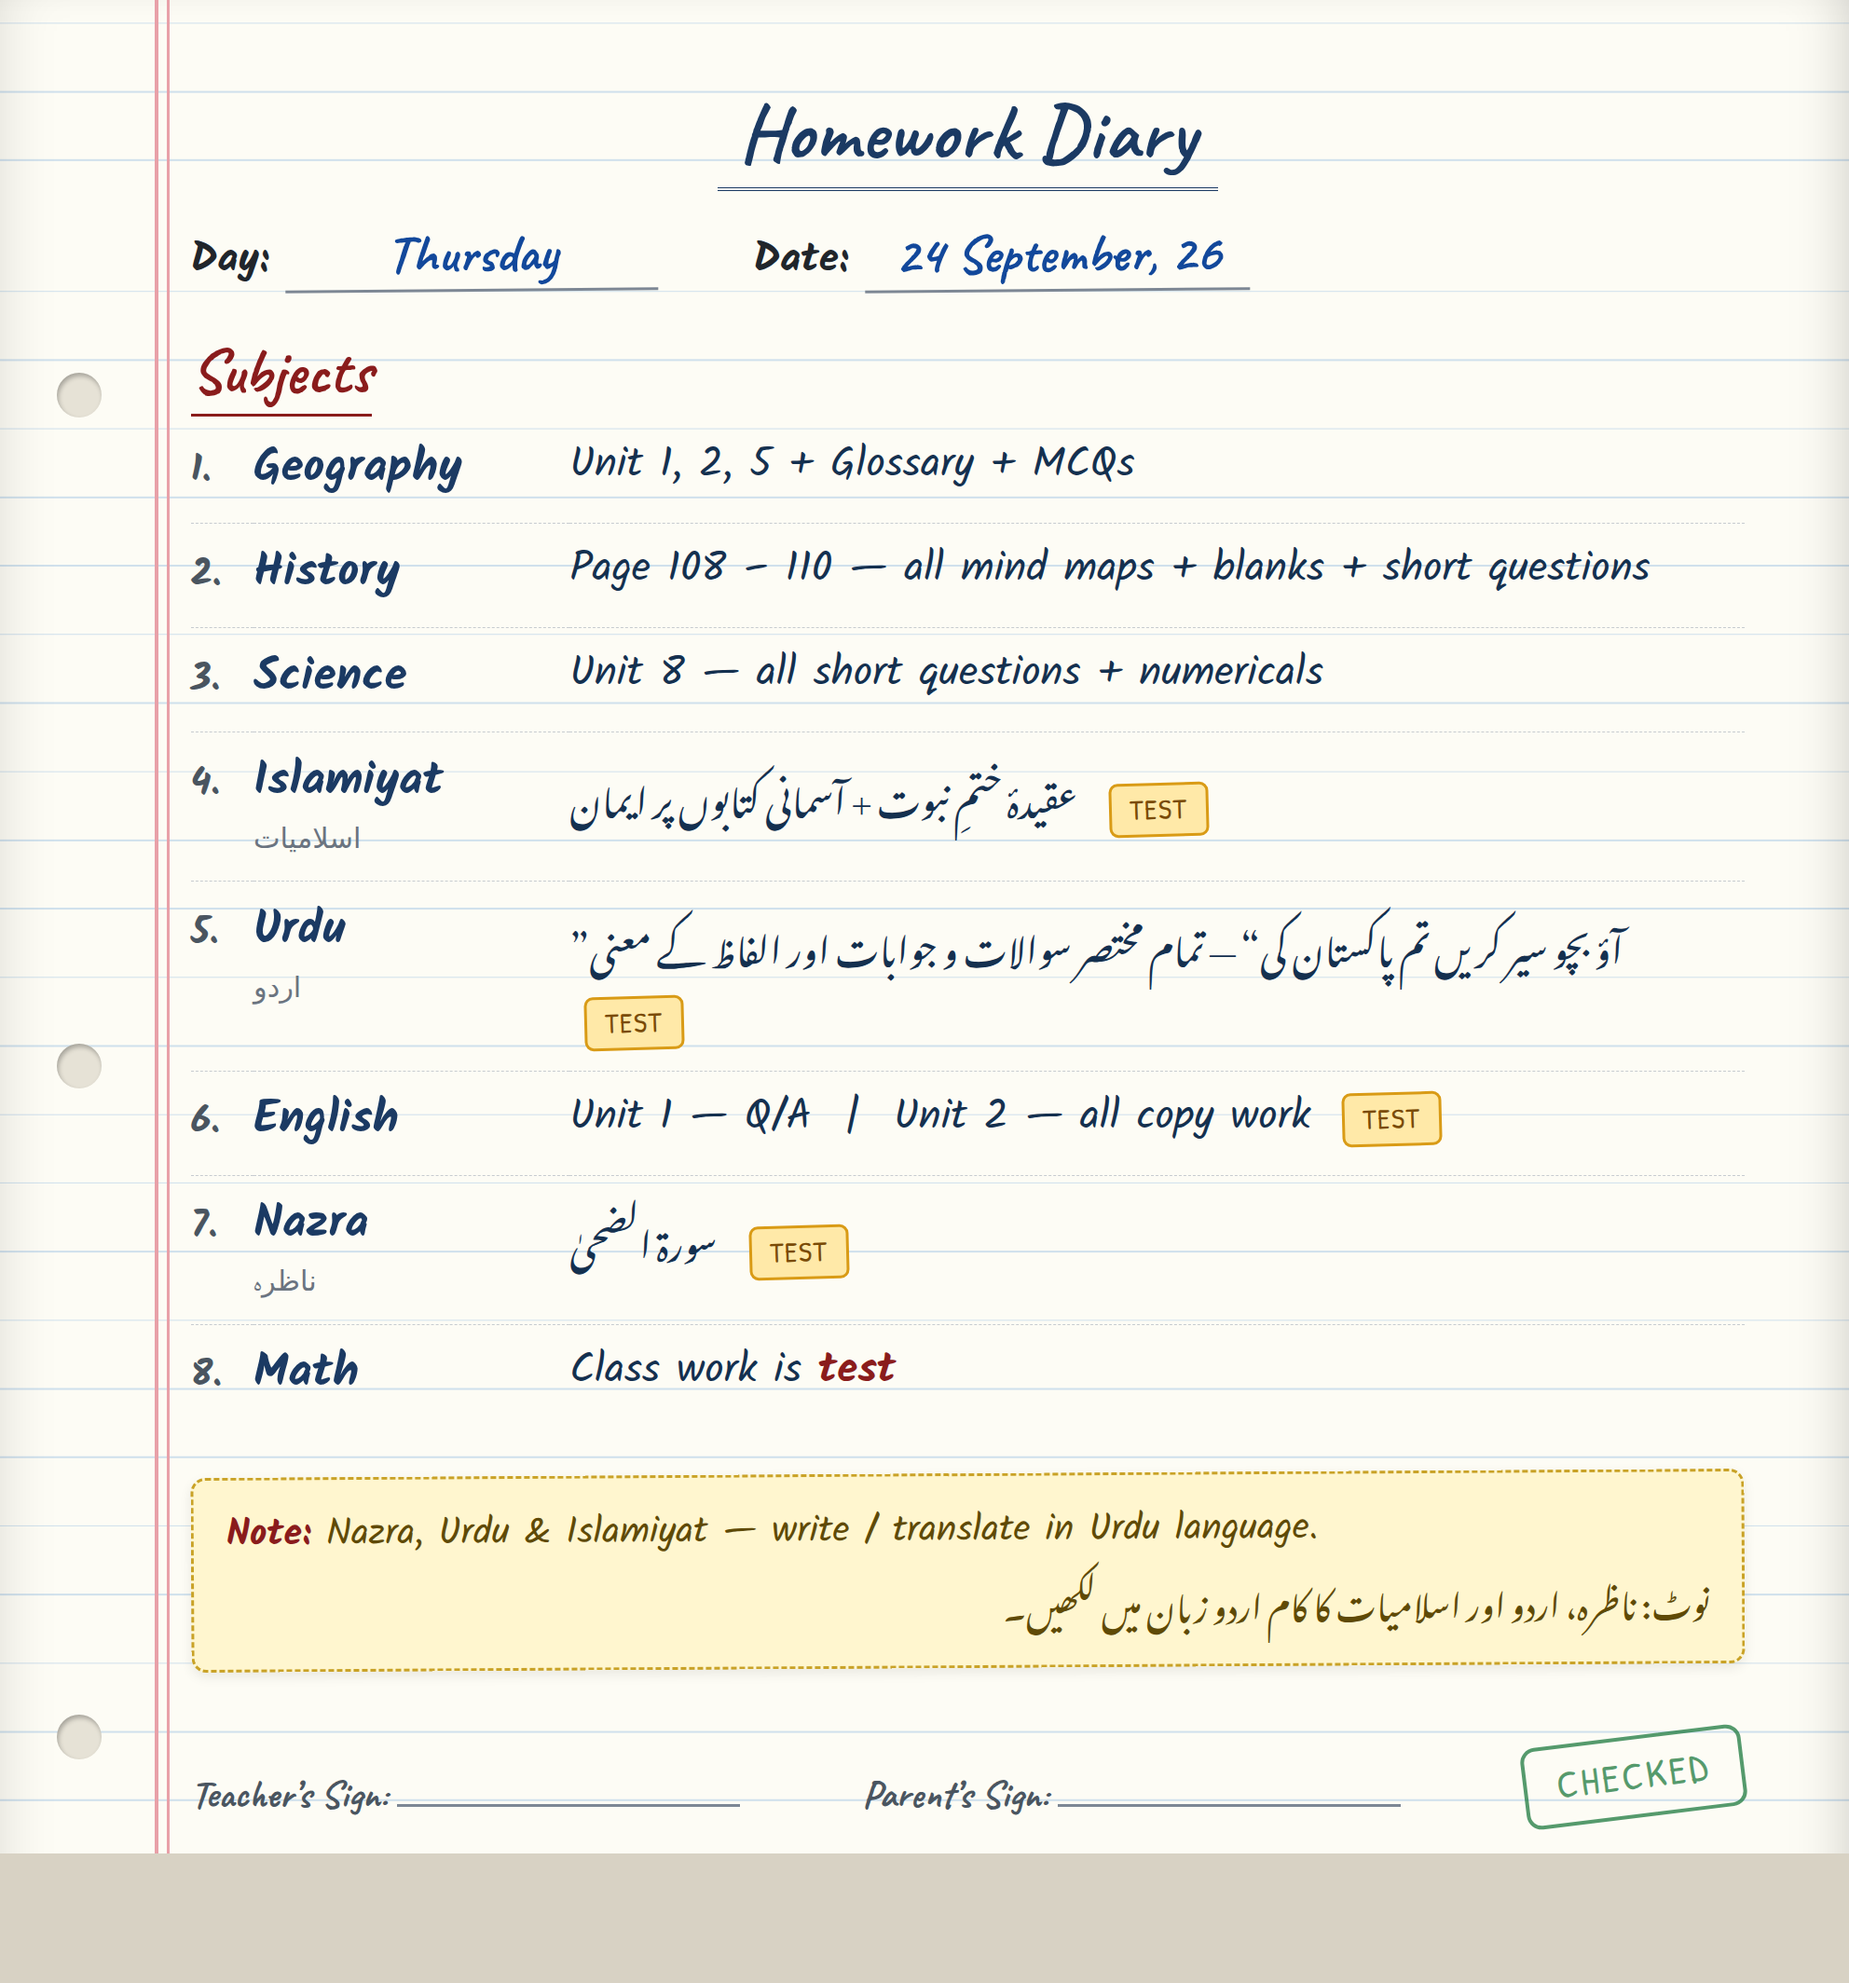
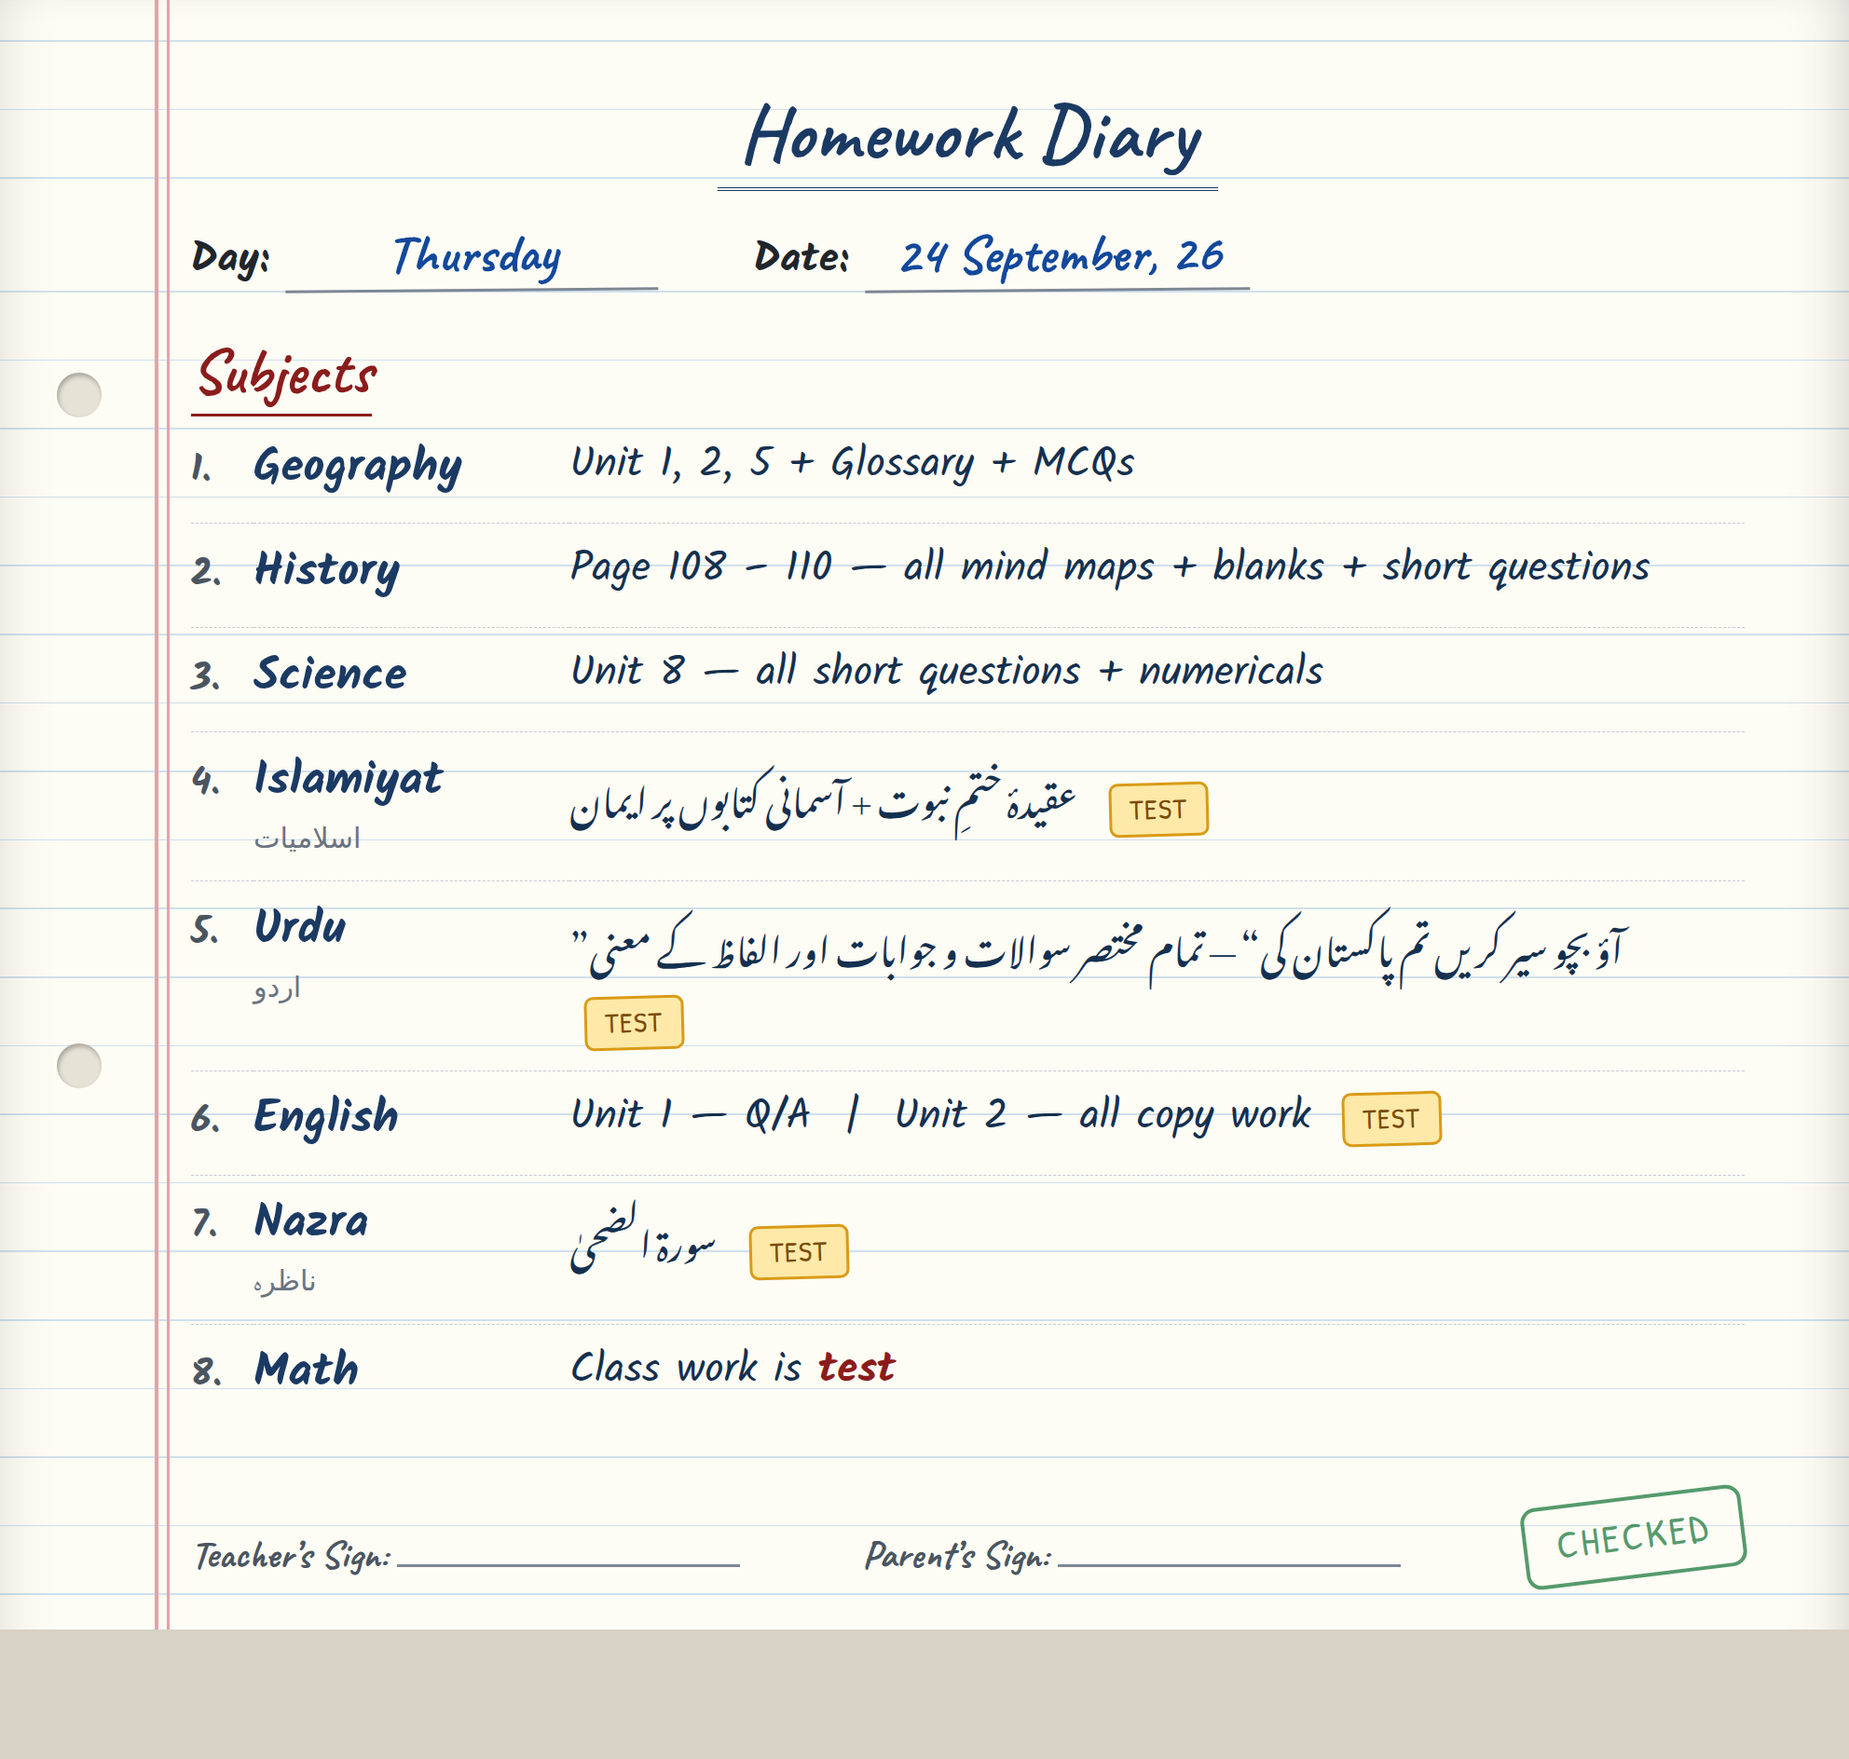
Remove note box from diary page
Drops the bottom note block and trims the page height to match.

Claude-Session: https://claude.ai/code/session_012MwDs2Pq4k9B92QEmaxRzU

diff --git a/diary-24-september.html b/diary-24-september.html
@@ -15,7 +15,7 @@
   body { width:1240px; background:#d8d2c4; font-family:'KalamL',cursive; }
 
   .page {
-    width:1240px; min-height:1330px; background:#fdfcf5;
+    width:1240px; min-height:1180px; background:#fdfcf5;
     background-image:
       repeating-linear-gradient(to bottom, transparent 0 45px, #cfe0ec 45px 46px);
     background-position: 0 150px;
@@ -137,10 +137,6 @@
     </tr>
   </table>
 
-  <div class="note">
-    <b>Note:</b> Nazra, Urdu &amp; Islamiyat &mdash; write / translate in Urdu language.
-    <div class="ur">نوٹ: ناظرہ، اردو اور اسلامیات کا کام اردو زبان میں لکھیں۔</div>
-  </div>
 
   <div class="foot">
     <div class="sign">Teacher&rsquo;s Sign: <u></u></div>
